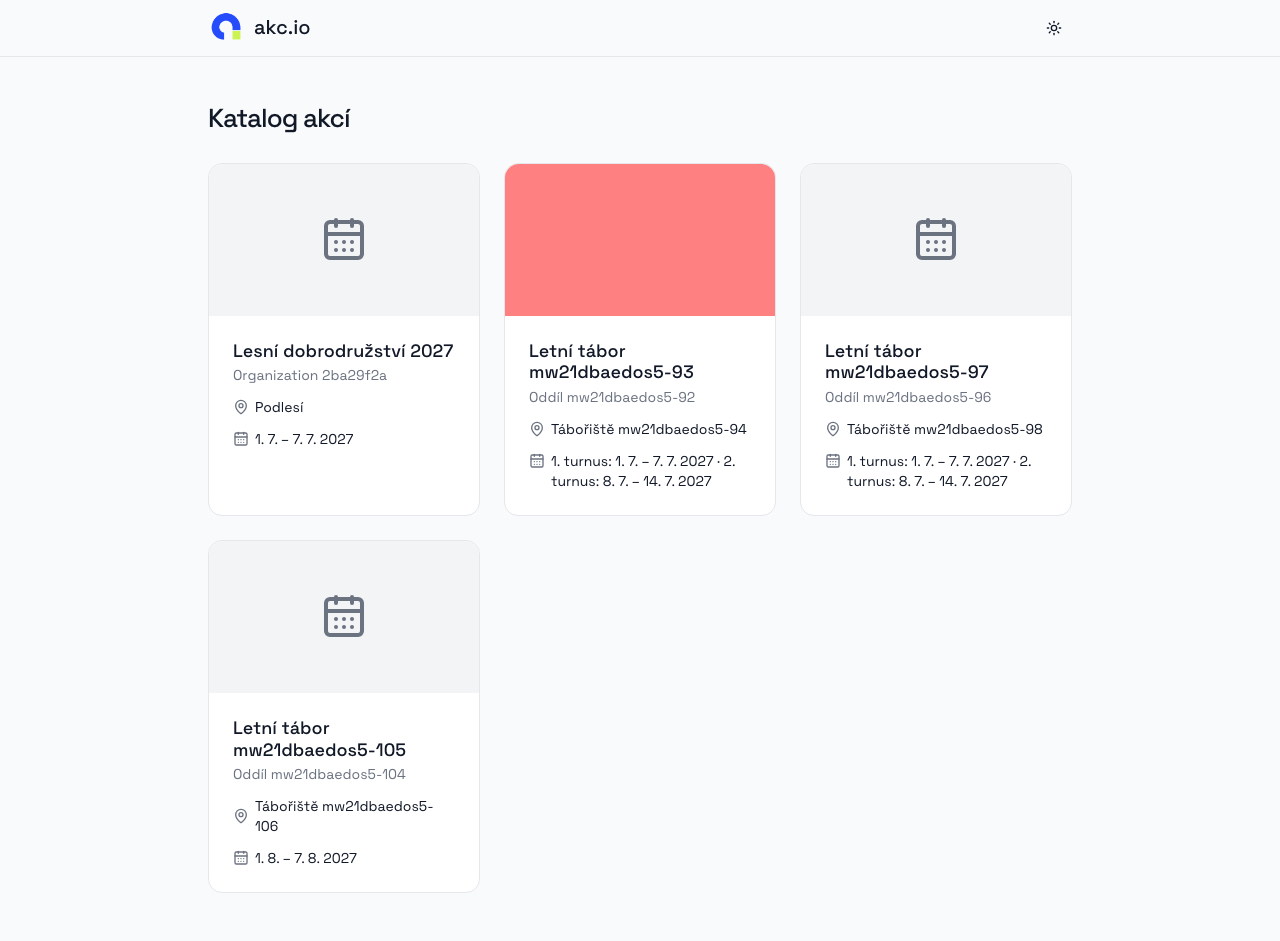
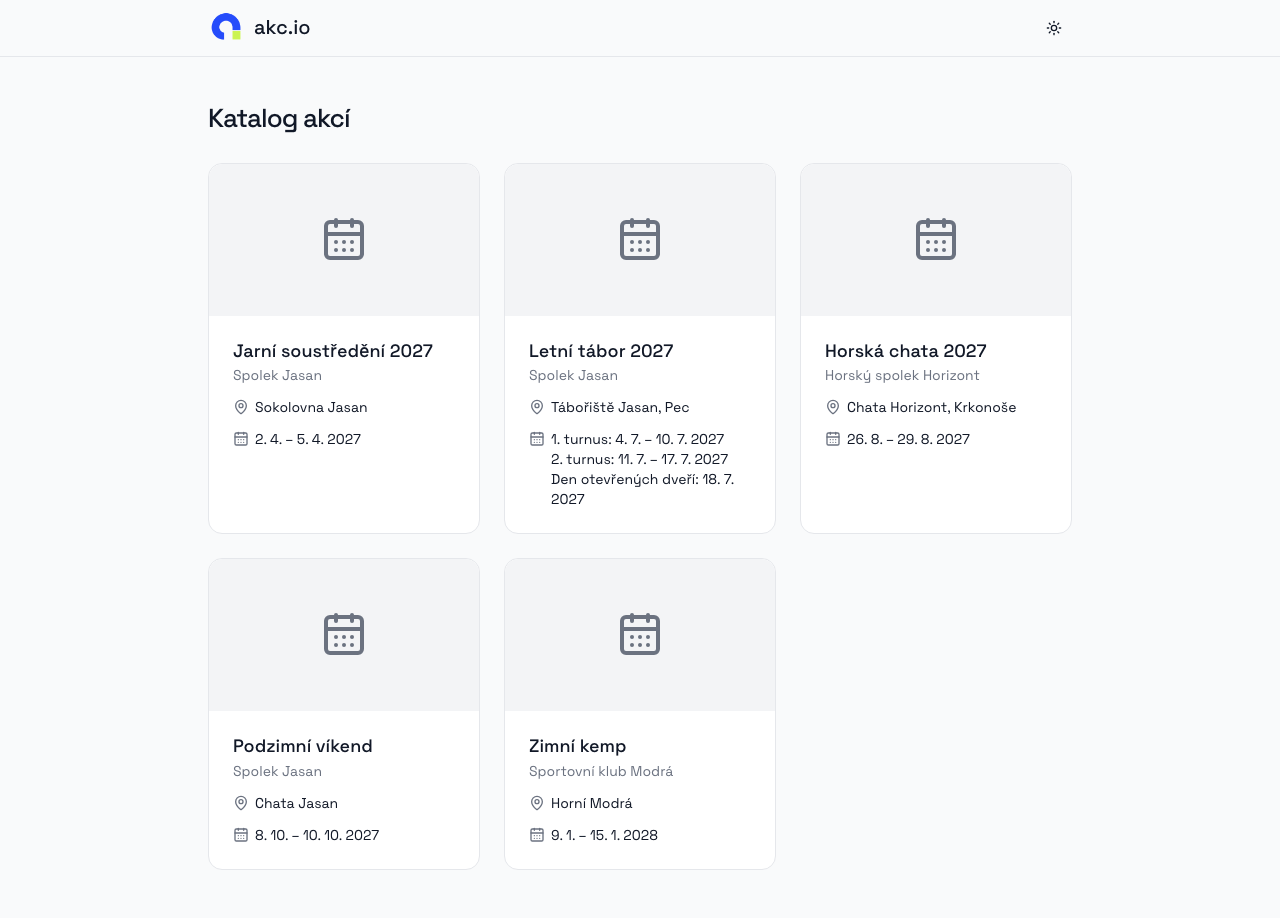
fix(public-events): one term per line in catalog cards (F54-2a)

diff --git a/apps/frontend/src/features/public-events/components/EventCatalogList.tsx b/apps/frontend/src/features/public-events/components/EventCatalogList.tsx
@@ -55,13 +55,25 @@ export function EventCatalogList({ events }: { events: CatalogEventItem[] }) {
                 />
                 <span className="min-w-0 break-words">{event.location}</span>
               </p>
-              <p className="flex items-start gap-1.5 text-sm">
-                <CalendarDays
-                  aria-hidden
-                  className="mt-0.5 size-4 shrink-0 text-muted-foreground"
-                />
-                <span className="min-w-0 break-words">{event.terms.join(" · ")}</span>
-              </p>
+              {event.terms.length > 0 ? (
+                <div className="flex items-start gap-1.5 text-sm">
+                  <CalendarDays
+                    aria-hidden
+                    className="mt-0.5 size-4 shrink-0 text-muted-foreground"
+                  />
+                  {/* One term per line, so several terms stay easy to tell apart. */}
+                  <ul className="min-w-0 flex-1">
+                    {event.terms.map((term) => (
+                      <li
+                        key={term}
+                        className="break-words"
+                      >
+                        {term}
+                      </li>
+                    ))}
+                  </ul>
+                </div>
+              ) : null}
               {event.ageGroup ? (
                 <div className="mt-auto pt-1">
                   <Badge variant="secondary">{event.ageGroup}</Badge>
